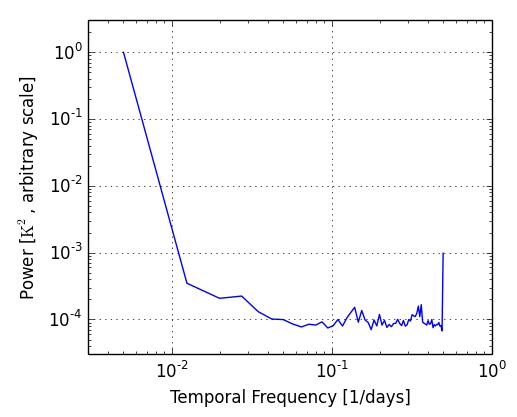
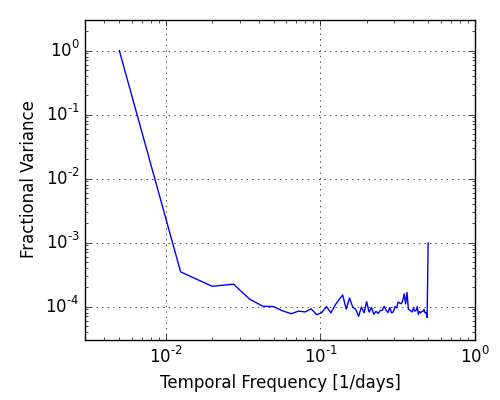
update stability plot axix.
fix caption to reflect. Add interpretation.
fix \ref -> \eqref for equations.
Fix caption for pspec variance.

diff --git a/psa64_pspec_ver2.tex b/psa64_pspec_ver2.tex
@@ -953,7 +953,7 @@ Namely, Stokes I can be estimated as
 \end{equation}
 where $V_{\rm XX}$ and $V_{\rm YY}$ are the visibilities of the two linear
 polarizations measured by the interferometer. There are some important caveats
-to the estimate of Stokes I provided by equation \ref{eqn:stokesi}. One
+to the estimate of Stokes I provided by Equation \eqref{eqn:stokesi}. One
 important caveat is that it neglects the beam asymmetry  between the two linear
 polarization states. This mismatch can cause polarization leakage from Stokes
 Q into Stokes I, thus contaminating  our measurement of the power spectrum with any polarized emission from the sky.
@@ -1001,7 +1001,7 @@ As per
 resulting from $W(\tau)$ using an iterative CLEAN procedure
 \citep{hogbom1974} restricting CLEAN components to fall within the horizon plus
 a 15-ns buffer that includes the bulk of the kernels convolving the $\delta$-function
-in equation \ref{eqn:delay_transform}.
+in Equation \eqref{eqn:delay_transform}.
 To remove the smooth spectrum
 foreground emission we subtract the CLEAN components from the original
 visibility.
@@ -1229,7 +1229,7 @@ bins by the beam response, we can get a net increase in sensitivity.
 
 Applying this filter effectively weights the data by another factor of the beam
 area, changing the effective primary beam response\footnote{The
-angular area in equation \ref{eqn:delay_pspec} will reflect the new angular area
+angular area in Equation \eqref{eqn:delay_pspec} will reflect the new angular area
 corresponding to the change in beam area.} $A(l,m)$\citep{parsons_et_al2015}. By
 utilizing prior knowledge about the beam area we are selectively down weighting
 areas on the sky contributing little signal. This results in a sensitivity boost of
@@ -1265,8 +1265,8 @@ in Figure \ref{fig:waterfalls}.
 \begin{figure}\centering
 \includegraphics[width=\columnwidth]{plots/fr_preserved_signal.png}
 \caption{
-[XXX update filter shape, which data to use?]
-Fringe-rate transform of visibilities measured on the fiducial baseline at 159 MHz before (blue) and
+[XXX Still calling it an optimal fringe rate filter?]
+Fringe-rate transform of foreground contained visibilities measured on the fiducial baseline at 159 MHz before (blue) and
 after (red) optimal fringe-rate filtering. The fringe-rate filter (green) is normalized
 to integrate to unity, but has been scaled here for legibility.
 %Fringe-rate filtering at 159MHz. Fringe-rates of is defined as the rate at which
@@ -1369,14 +1369,14 @@ PAPER instrument and the precision of calibration.
 \centering
 \includegraphics[width=\columnwidth]{plots/stability.png}
 \caption{
-[XXX change y label to fractional variance]
-[XXX update caption to describe how to interpret stability]
+[XXX update caption to describe how to interpret stability. I think I did this...]
 [XXX is this figure linked to in text?]
-[XXXVariance relative to the mean. Fractional variance.]
-Power spectrum of 135 days of time-series data contributing to a single LST bin,
-illustrating the stability of measurements over the observing campaign.  The excess at
-2-day timescales is a beat frequency associated with the changing alignment of 
-integration windows in the correlator with respect to sidereal time.  
+Power spectrum of 135 days of time-series data contributing to a single LST
+bin, illustrating the stability of measurements over the observing campaign.
+On all timescales, the instrument is stable to less than .1\% relative to the
+mean (DC). The excess at 2-day timescales is a beat frequency associated with
+the changing alignment of integration windows in the correlator with respect to
+sidereal time.  
 %Demonstration of the time stability of the instrument. For a given LST
 %bin, we take the day to day samples that go into that bin and determine the
 %power spectrum for that time seris. Shown here is the power spectrum of the time
@@ -1574,7 +1574,6 @@ covariance matrix to the $\alpha$th bin of the power spectrum.
 %We describe our choice of this
 %matrix in the next section, where we describe the application of the quadratic
 %estimator. 
-XXX: eqref vs. ref throughout
 
 The bias term $b_{\alpha}$ in Equation \eqref{eqn:qalpha} will include contributions
 from both instrumental noise and residual foregrounds. Their presence in the data
@@ -1858,7 +1857,7 @@ present case where we have $10$ different data vectors, we have
 so that auto-power contributions from identical baseline groups or identical even/odd indices
 never appear.
 
-In order to implement Equation $\ref{eqn:presum_qalpha}$, it is necessary to derive a form for
+In order to implement Equation $\eqref{eqn:presum_qalpha}$, it is necessary to derive a form for
 $\mathbf{Q}_\alpha \equiv \partial \mathbf{C} / \partial p_\alpha$. To do so, we follow the delay
 spectrum technique of P12a, where it was shown that
 \begin{equation}\label{eqn:delay_pspec}
@@ -1912,12 +1911,12 @@ $\mathbf{\hat{p}}$ prevents leakage from this edge bin that will contain aliased
 \begin{figure}\centering
 \includegraphics[width=\columnwidth]{plots/window.png}
 \caption{
-The window function matrix $\mathbf{W}$, as defined in equation \ref{eqn:true_pspec_2_est_pspec}.
+The window function matrix $\mathbf{W}$, as defined in Equation \eqref{eqn:true_pspec_2_est_pspec}.
 The $i^{\rm th}$ row corresponds to the window function
 used in the estimate of the power spectrum for the $i^{\rm th}$ $k$-mode.
 Color scale indicates $\log_{10}\mathbf{W}$.
 The inset plot illustrates the window function along the dashed line in the upper panel.
-As described in Section \ref{sec:oqe_app}, $\mathbf{M}$ in equation \ref{eqn:window_def} has been chosen so that
+As described in Section \ref{sec:oqe_app}, $\mathbf{M}$ in Equation \eqref{eqn:window_def} has been chosen so that
 each window function peaks at the waveband while achieving a high degree of isolation from
 at lower $k$-modes that are likely to be biased by foregrounds.
 }\label{fig:window_func}
@@ -2154,7 +2153,7 @@ multiple samples of the power spectrum in order to apply the bootstrap method to
 calculate our error bars. In detail, the power spectrum estimation scheme proposed
 above requires averaging at several points in the pipeline:
 \begin{itemize}
-\item Visibilities are averaged into five baseline groups after inverse covariance weighting (see Equation \ref{eqn:presum_oqe})
+\item Visibilities are averaged into five baseline groups after inverse covariance weighting (see Equation \eqref{eqn:presum_oqe})
 \item Power spectrum estimates from each of the three redundant baseline types (described in Section \ref{sec:observations}) are averaged together.
 \item Power spectrum estimates from each LST are averaged together.
 \end{itemize}
@@ -2211,8 +2210,10 @@ the $\ln2$ correction factor to all our power spectrum estimates.
 \begin{figure*}\centering
 \includegraphics[width=1.8\columnwidth]{plots/pspec_variance.png}
 \caption{
+[XXX state that it is the absolute value plotted.Done. Check off?]
+[XXX add in what the modes are: bls X time modes]
 Cumulative mean (left) and median (right), as a function of number of modes,
-of power spectrum band power for
+of absolute value of the power spectrum band power for
 $k_\parallel$ modes ranging from $-0.49$ (red) to $0.44\hMpci$ (violet).
 This Allen variance plot shows modes averaging down as the square root of
 number of modes combined until a signal floor is reached.  The difference in
@@ -2360,7 +2361,7 @@ loss through all stages of analysis, as summarized in Table \ref{tbl:sigloss}.
 The final results are plotted in Figure \ref{fig:final_pspec}.
 For the first two modes outside of the horizon, we have
 clear detections. We attribute these to foreground leakage from
-inside the horizon related to the convolution kernels in equation \ref{eqn:delay_transform} (either
+inside the horizon related to the convolution kernels in Equation \eqref{eqn:delay_transform} (either
 from the chromaticity of the antenna response, or from the inherent spectrum of the
 foregrounds themselves).  Somewhat more difficult to interpret is the 
 $3.0\sigma$ excess at $k\approx0.35\hMpci$, and to a lesser
@@ -2465,8 +2466,8 @@ for the heating of the intergalactic medium prior to the completion of reionizat
 \includegraphics[width=2\columnwidth]{plots/ts_patchy_bound.png}
 \caption{Constraints on the 21cm spin temperature at $z=8.4$, 
 assuming 
-the patchy reionization model in equations
-\ref{eqn:d2pspec_model} and \ref{eqn:patchy_bound}, which hold in the limit
+the patchy reionization model in Equations
+\eqref{eqn:d2pspec_model} and \eqref{eqn:patchy_bound}, which hold in the limit
 that $T_{\rm s}<T_{\rm CMB}$.
 } \label{fig:patchy_bound}
 \end{figure*}
@@ -2547,7 +2548,7 @@ dependence, and therefore $T_0^2\xi^2$ becomes a simple multiplicative scalar to
 where $\Delta_{i}^{2}(k)$ is the dimensionless ionization power spectrum. 
 
 As shown in P14, the maximum value of the
-prefactor in equation \ref{eqn:d2pspec_model} is given by 
+prefactor in Equation \eqref{eqn:d2pspec_model} is given by 
 a no-heating scenario where the spin temperature follows the kinetic gas temperature,
 which is held in equilibrium with the CMB via Compton scattering until $z_{\rm dec}\approx150$
 \citep{furlanetto_et_al2006} and then cools adiabatically
@@ -2559,7 +2560,7 @@ In this case, $\xi$ is given by
 At $z=8.4$, this corresponds to a minimum bound on the spin temperature of $\Tspin>1.5~{\rm K}$.
 
 We can now flip this argument around and, for a measured upper bound on $\Delta^2_{21}(k)$, we
-can use models for $\Delta_i^2(k)$ in equation \ref{eqn:d2pspec_model} to place a bound
+can use models for $\Delta_i^2(k)$ in Equation \eqref{eqn:d2pspec_model} to place a bound
 on $\Tspin$.  
 %This produces a maximum prefactor of
 %\begin{equation}
@@ -2913,7 +2914,7 @@ The Hydrogen Epoch of Reionization Array (HERA), whose first phase was recently 
 under the National Science Foundation's {\it Mid-Scale Innovations Program}, has been
 designed to this specification. HERA uses a close packing of 14-m diameter 
 dishes designed to minimize the width of the delay-space kernel
-$\tilde{A}_\tau$ in equation \ref{eqn:delay_transform}.
+$\tilde{A}_\tau$ in Equation \eqref{eqn:delay_transform}.
 Sensitivity forecasts for a 547-element HERA array
 show that HERA can deliver detections of the 21cm reionization signal
 at a significance of 32$\sigma$ using the same the conservative 

diff --git a/plots/plot_stability.py b/plots/plot_stability.py
@@ -94,7 +94,7 @@ else:
     p.loglog(_days[:_days.size/2]+.005, dat)
 p.ylim(3e-5,3)
 p.xlim(3e-3,1)
-p.ylabel(r'Power [${\rm K}^2$, arbitrary scale]')
+p.ylabel(r'Fractional Variance')
 p.xlabel(r'Temporal Frequency [1/days]')
 p.grid()
 p.subplots_adjust(right=.95, top=.95, left=.17, bottom=.15)
